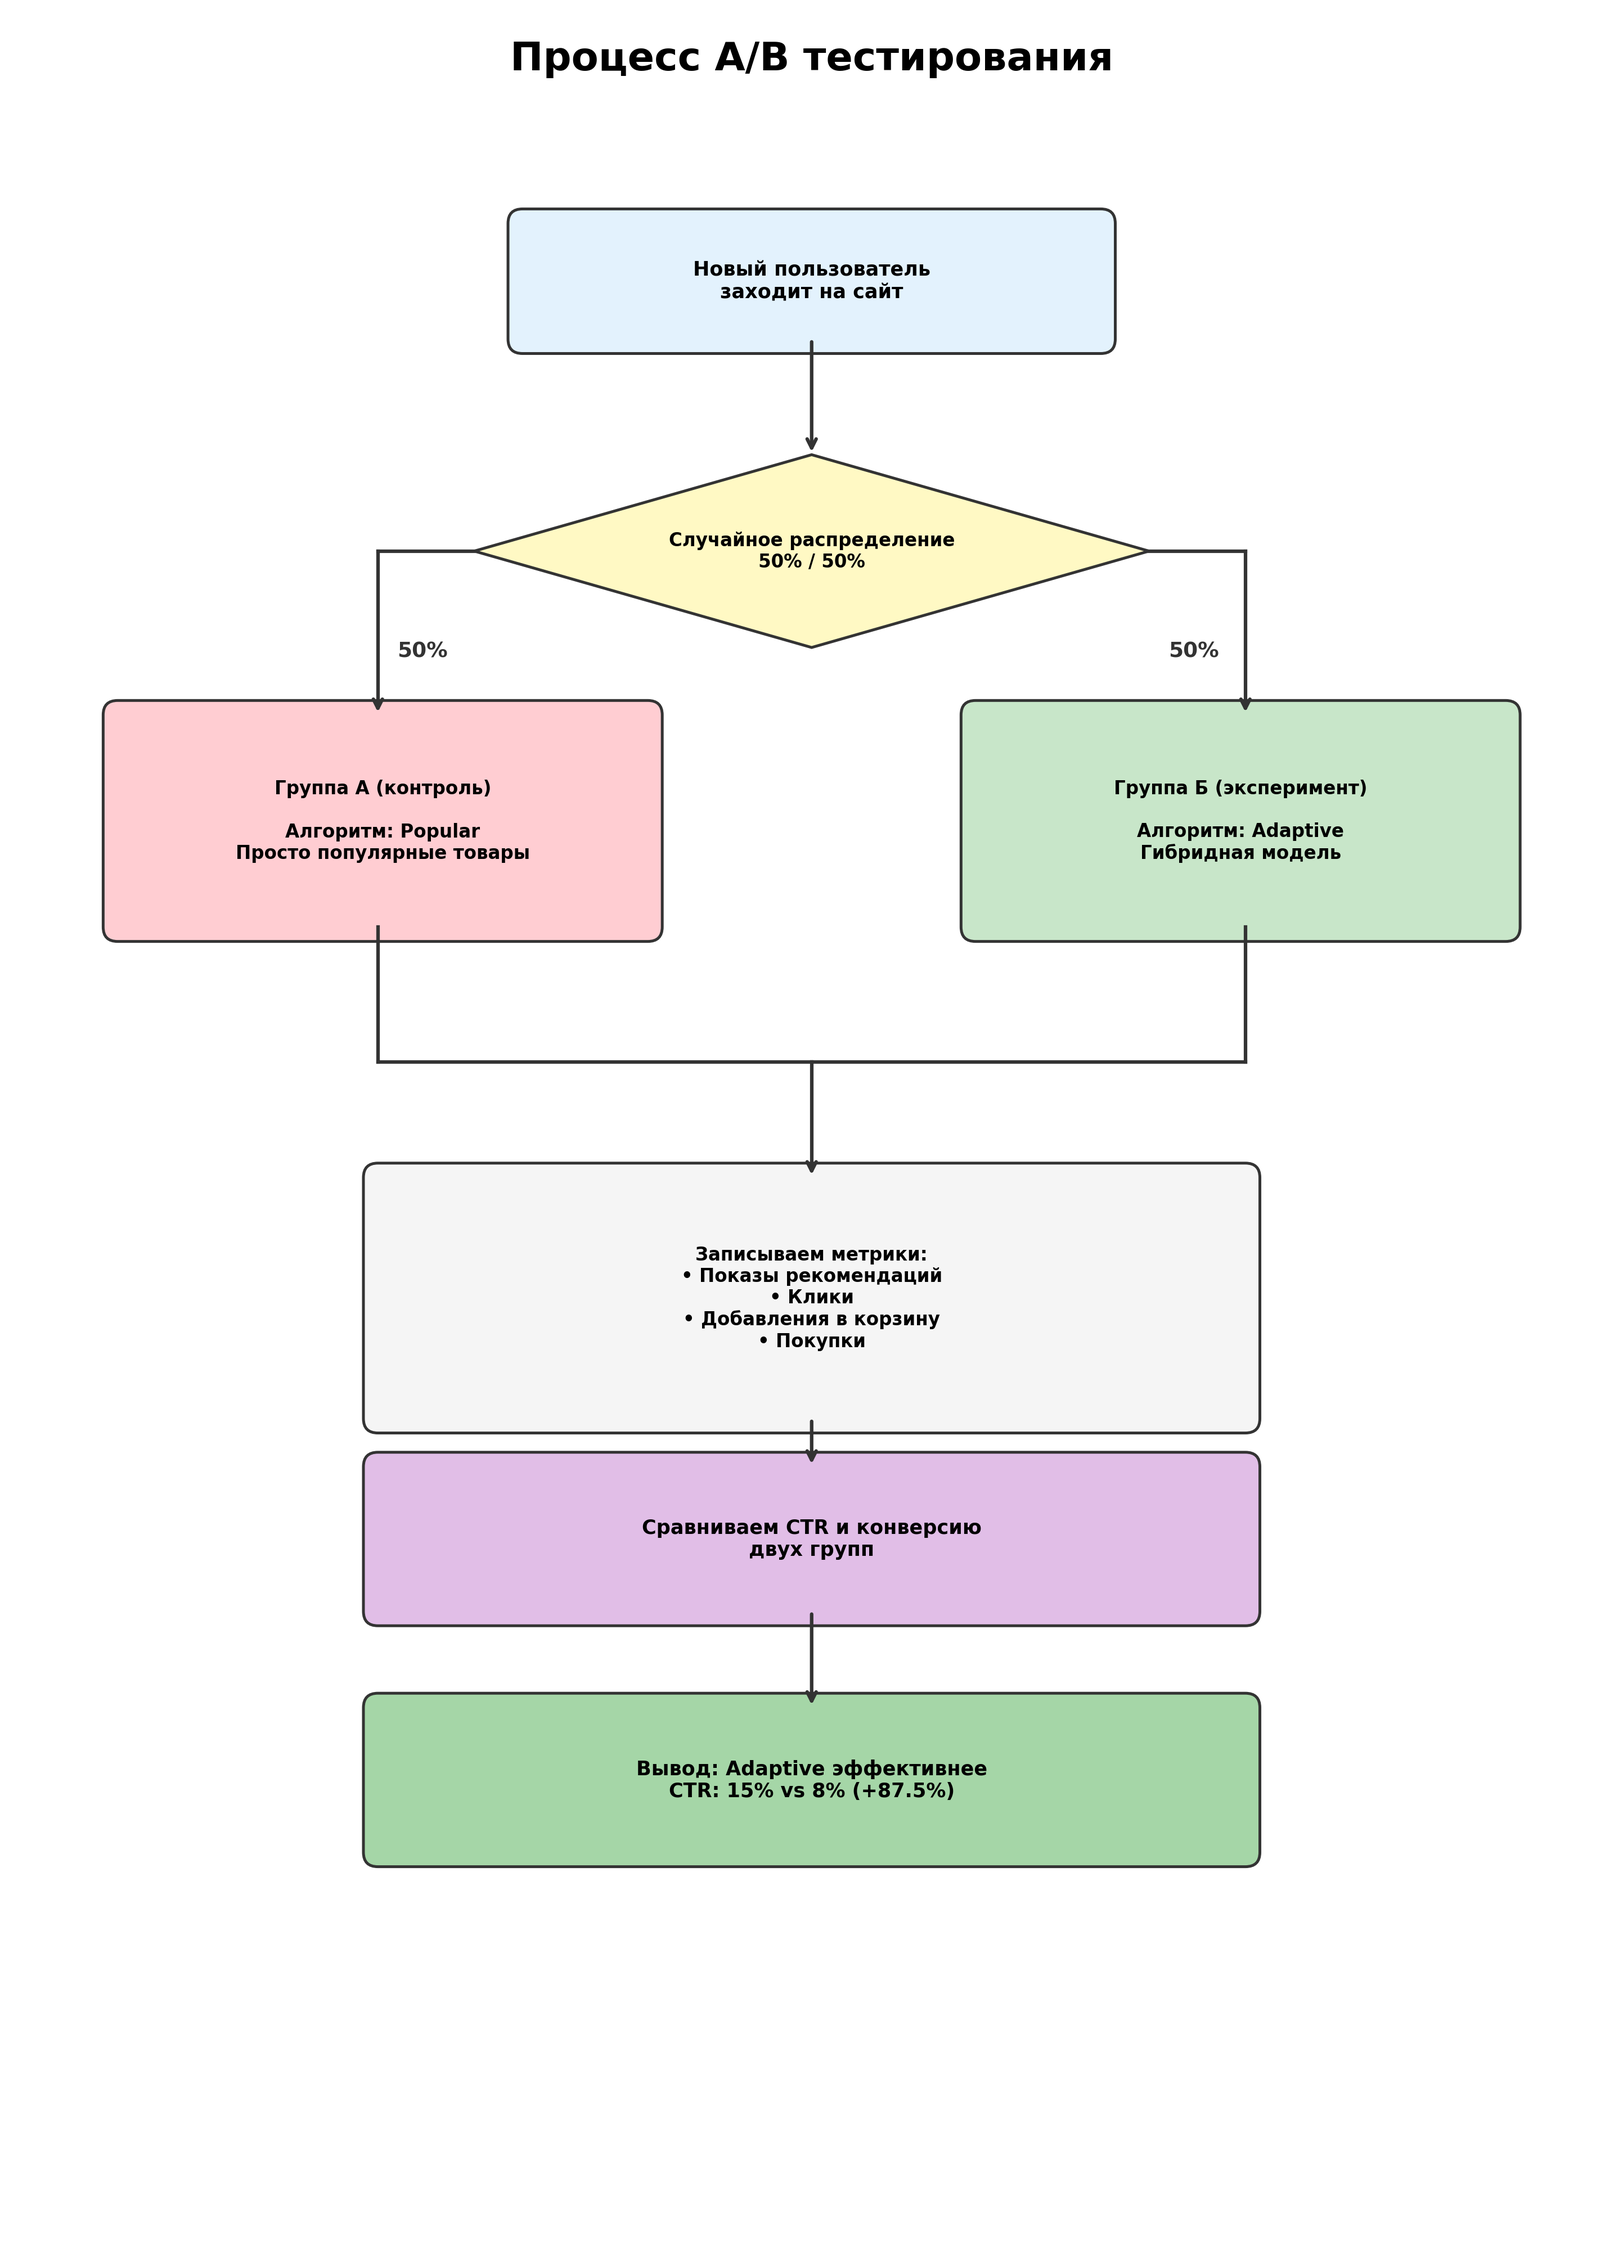
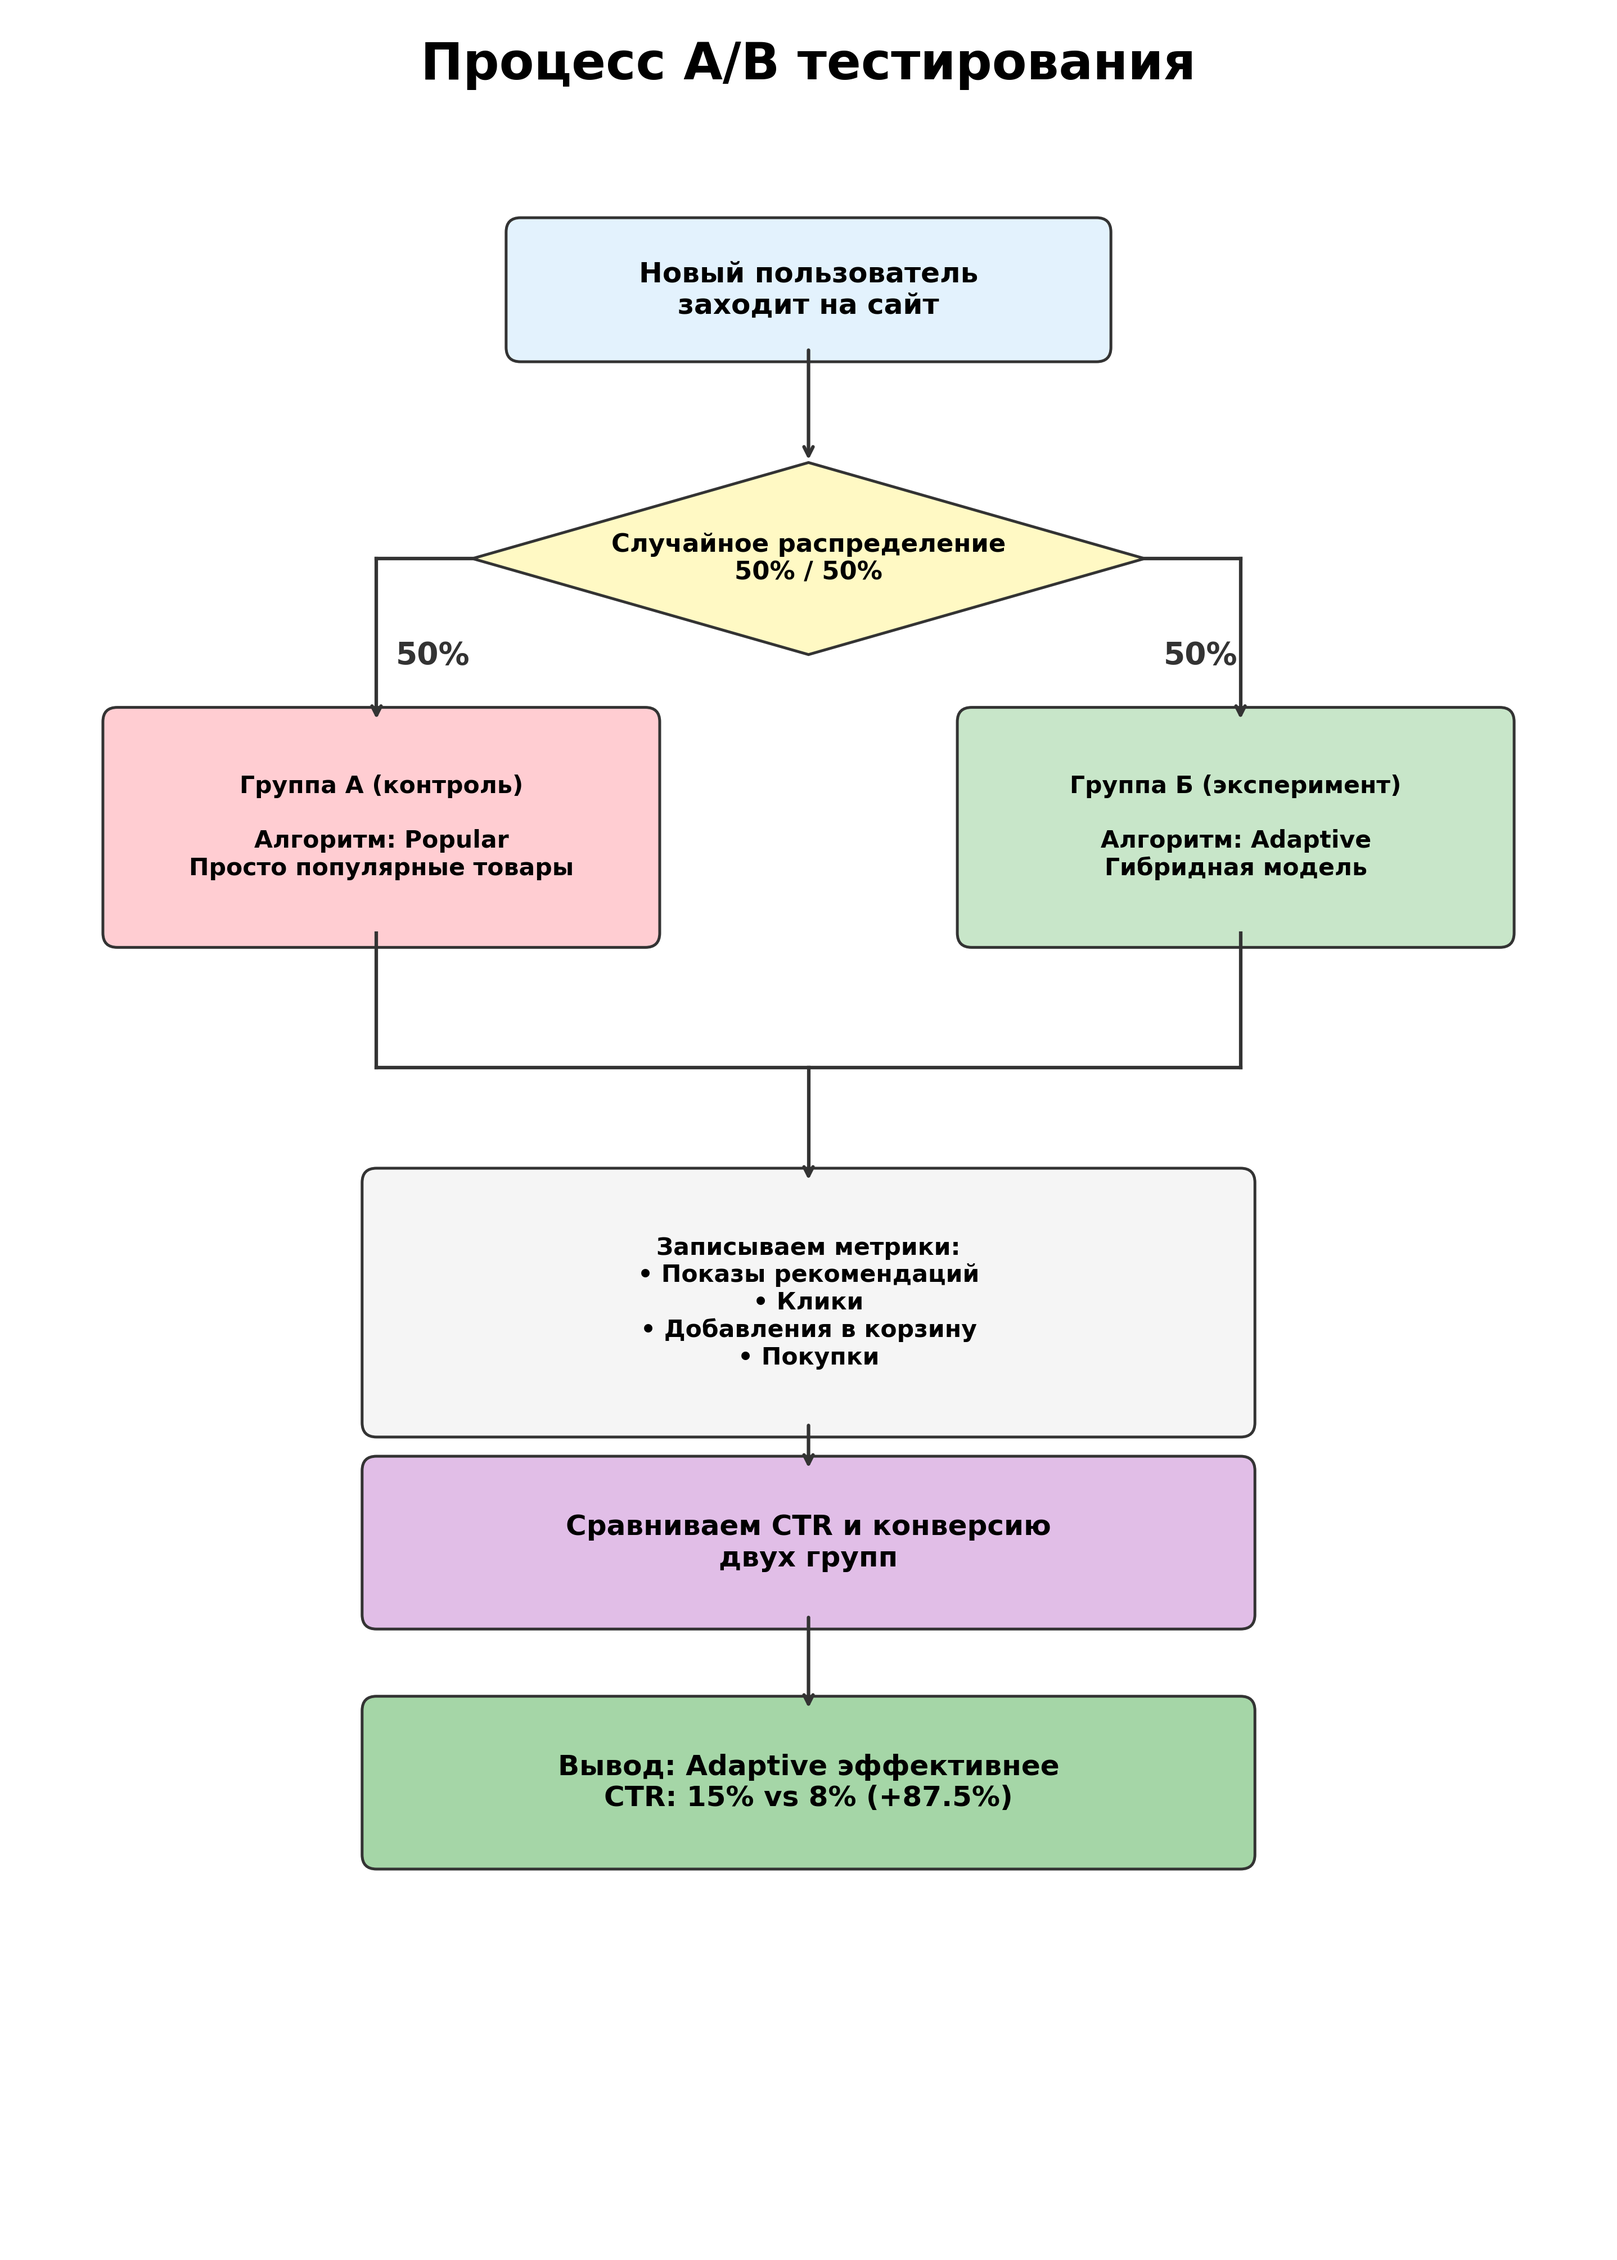
fix: diagram 05 - increase font sizes for better readability

diff --git a/diplomnaya-rabota/revised-diagrams-drawio/generate_drawio.py b/diplomnaya-rabota/revised-diagrams-drawio/generate_drawio.py
@@ -396,9 +396,9 @@ def diagram_05_ab_test():
     ax.set_ylim(0, 22)
     ax.set_aspect('equal')
     ax.axis('off')
-    ax.set_title('Процесс A/B тестирования', fontsize=28, fontweight='bold', pad=20)
+    ax.set_title('Процесс A/B тестирования', fontsize=36, fontweight='bold', pad=20)
 
-    def draw_rect(x, y, w, h, text, color, fontsize=14):
+    def draw_rect(x, y, w, h, text, color, fontsize=20):
         rect = FancyBboxPatch((x, y), w, h, boxstyle="round,pad=0.15",
                               facecolor=color, edgecolor='#333333', linewidth=2)
         ax.add_patch(rect)
@@ -413,7 +413,7 @@ def diagram_05_ab_test():
             (cx - w/2, cy),
         ], closed=True, facecolor=color, edgecolor='#333333', linewidth=2)
         ax.add_patch(diamond)
-        ax.text(cx, cy, text, ha='center', va='center', fontsize=13, fontweight='bold')
+        ax.text(cx, cy, text, ha='center', va='center', fontsize=18, fontweight='bold')
 
     def arrow_down(x1, y1, x2, y2):
         ax.annotate('', xy=(x2, y2), xytext=(x1, y1),
@@ -421,7 +421,7 @@ def diagram_05_ab_test():
 
     # ========== LAYOUT ==========
     # Row 1: Start box (5, 19.5, 6, 1.2) → bottom 19.5, top 20.7
-    draw_rect(5, 19.5, 6, 1.2, 'Новый пользователь\nзаходит на сайт', '#E3F2FD', 14)
+    draw_rect(5, 19.5, 6, 1.2, 'Новый пользователь\nзаходит на сайт', '#E3F2FD', 20)
 
     # Arrow: start bottom (19.5) → diamond top (17.3 + 1.0 = 18.3)
     arrow_down(8, 19.5, 8, 18.3)
@@ -434,20 +434,20 @@ def diagram_05_ab_test():
     ax.plot([3.5, 3.5], [17.3, 15.75], color='#333333', lw=2.5)
     ax.annotate('', xy=(3.5, 15.6), xytext=(3.5, 15.75),
                 arrowprops=dict(arrowstyle='->', lw=2.5, color='#333333'))
-    ax.text(3.7, 16.2, '50%', fontsize=15, fontweight='bold', color='#333333')
+    ax.text(3.7, 16.2, '50%', fontsize=22, fontweight='bold', color='#333333')
 
     # 50% right — diamond right (11.5) → treatment box top (15.6)
     ax.plot([11.5, 12.5], [17.3, 17.3], color='#333333', lw=2.5)
     ax.plot([12.5, 12.5], [17.3, 15.75], color='#333333', lw=2.5)
     ax.annotate('', xy=(12.5, 15.6), xytext=(12.5, 15.75),
                 arrowprops=dict(arrowstyle='->', lw=2.5, color='#333333'))
-    ax.text(11.7, 16.2, '50%', fontsize=15, fontweight='bold', color='#333333')
+    ax.text(11.7, 16.2, '50%', fontsize=22, fontweight='bold', color='#333333')
 
     # Row 3: Control (left) and Treatment (right) — both bottom 13.4, top 15.6
     draw_rect(0.8, 13.4, 5.5, 2.2,
-              'Группа А (контроль)\n\nАлгоритм: Popular\nПросто популярные товары', '#FFCDD2', 13)
+              'Группа А (контроль)\n\nАлгоритм: Popular\nПросто популярные товары', '#FFCDD2', 17)
     draw_rect(9.7, 13.4, 5.5, 2.2,
-              'Группа Б (эксперимент)\n\nАлгоритм: Adaptive\nГибридная модель', '#C8E6C9', 13)
+              'Группа Б (эксперимент)\n\nАлгоритм: Adaptive\nГибридная модель', '#C8E6C9', 17)
 
     # Control bottom (13.4) → merge into metrics top (10.3 + 2.5 = 12.8)
     # Left line: down then right
@@ -463,21 +463,21 @@ def diagram_05_ab_test():
 
     # Row 4: Metrics box (3.5, 8.3, 9, 2.5) → bottom 8.3, top 10.8
     draw_rect(3.5, 8.3, 9, 2.5,
-              'Записываем метрики:\n• Показы рекомендаций\n• Клики\n• Добавления в корзину\n• Покупки', '#F5F5F5', 13)
+              'Записываем метрики:\n• Показы рекомендаций\n• Клики\n• Добавления в корзину\n• Покупки', '#F5F5F5', 17)
 
     # Arrow: metrics bottom (8.3) → compare top (6.3 + 1.5 = 7.8)
     arrow_down(8, 8.3, 8, 7.8)
 
     # Row 5: Compare box (3.5, 6.3, 9, 1.5) → bottom 6.3, top 7.8
     draw_rect(3.5, 6.3, 9, 1.5,
-              'Сравниваем CTR и конверсию\nдвух групп', '#E1BEE7', 14)
+              'Сравниваем CTR и конверсию\nдвух групп', '#E1BEE7', 20)
 
     # Arrow: compare bottom (6.3) → result top (3.8 + 1.5 = 5.3)
     arrow_down(8, 6.3, 8, 5.3)
 
     # Row 6: Result box (3.5, 3.8, 9, 1.5) → bottom 3.8, top 5.3
     draw_rect(3.5, 3.8, 9, 1.5,
-              'Вывод: Adaptive эффективнее\nCTR: 15% vs 8% (+87.5%)', '#A5D6A7', 14)
+              'Вывод: Adaptive эффективнее\nCTR: 15% vs 8% (+87.5%)', '#A5D6A7', 20)
 
     plt.tight_layout()
     plt.savefig(OUTPUT_DIR / '05_AB_тестирование.png', dpi=180, bbox_inches='tight',
